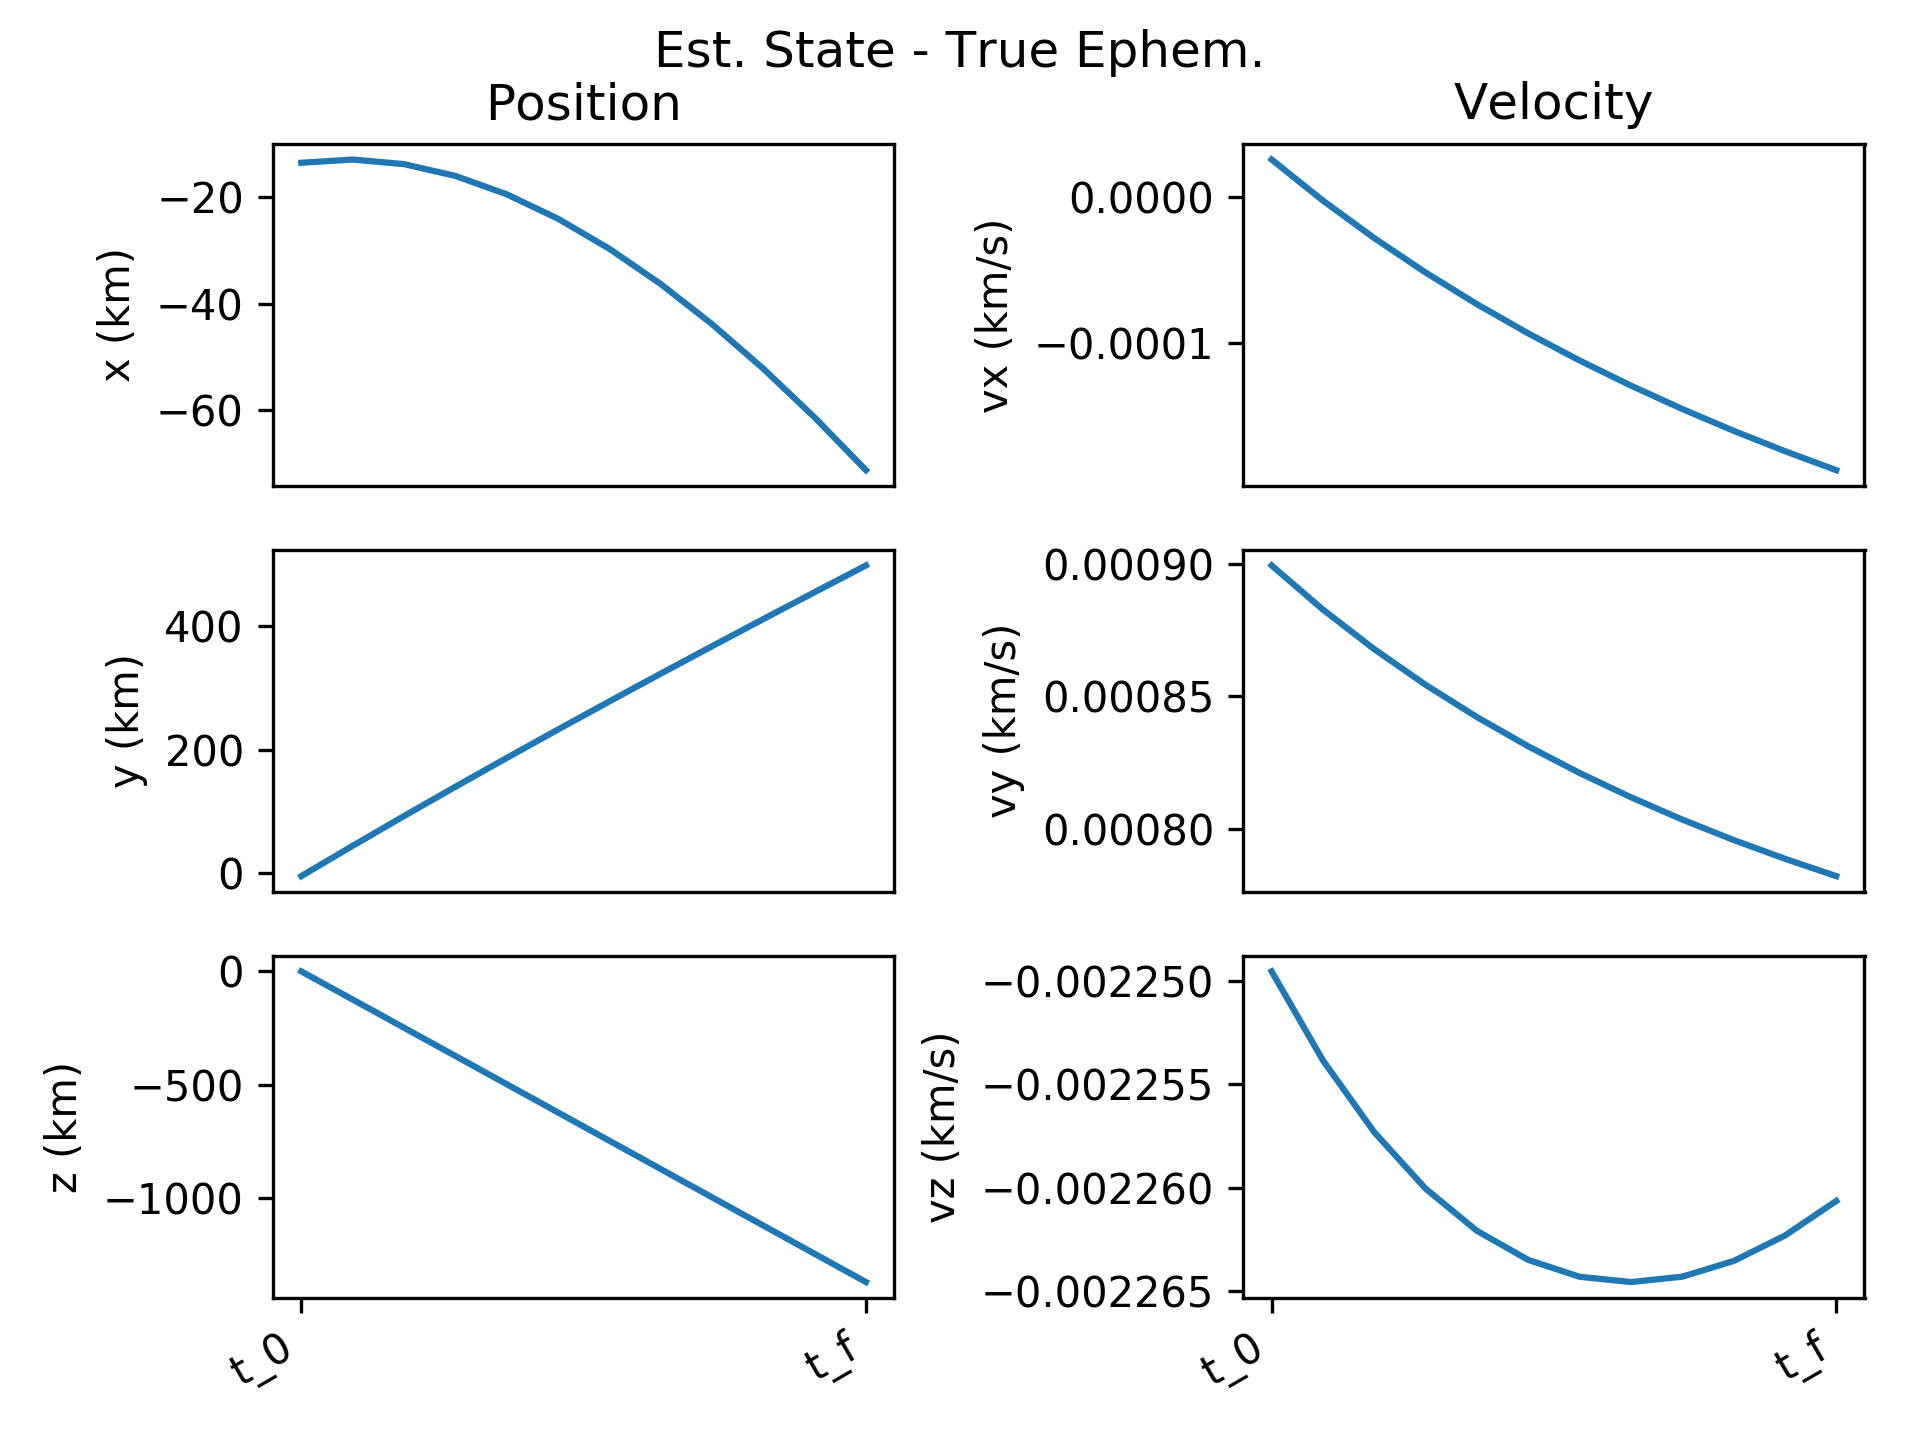
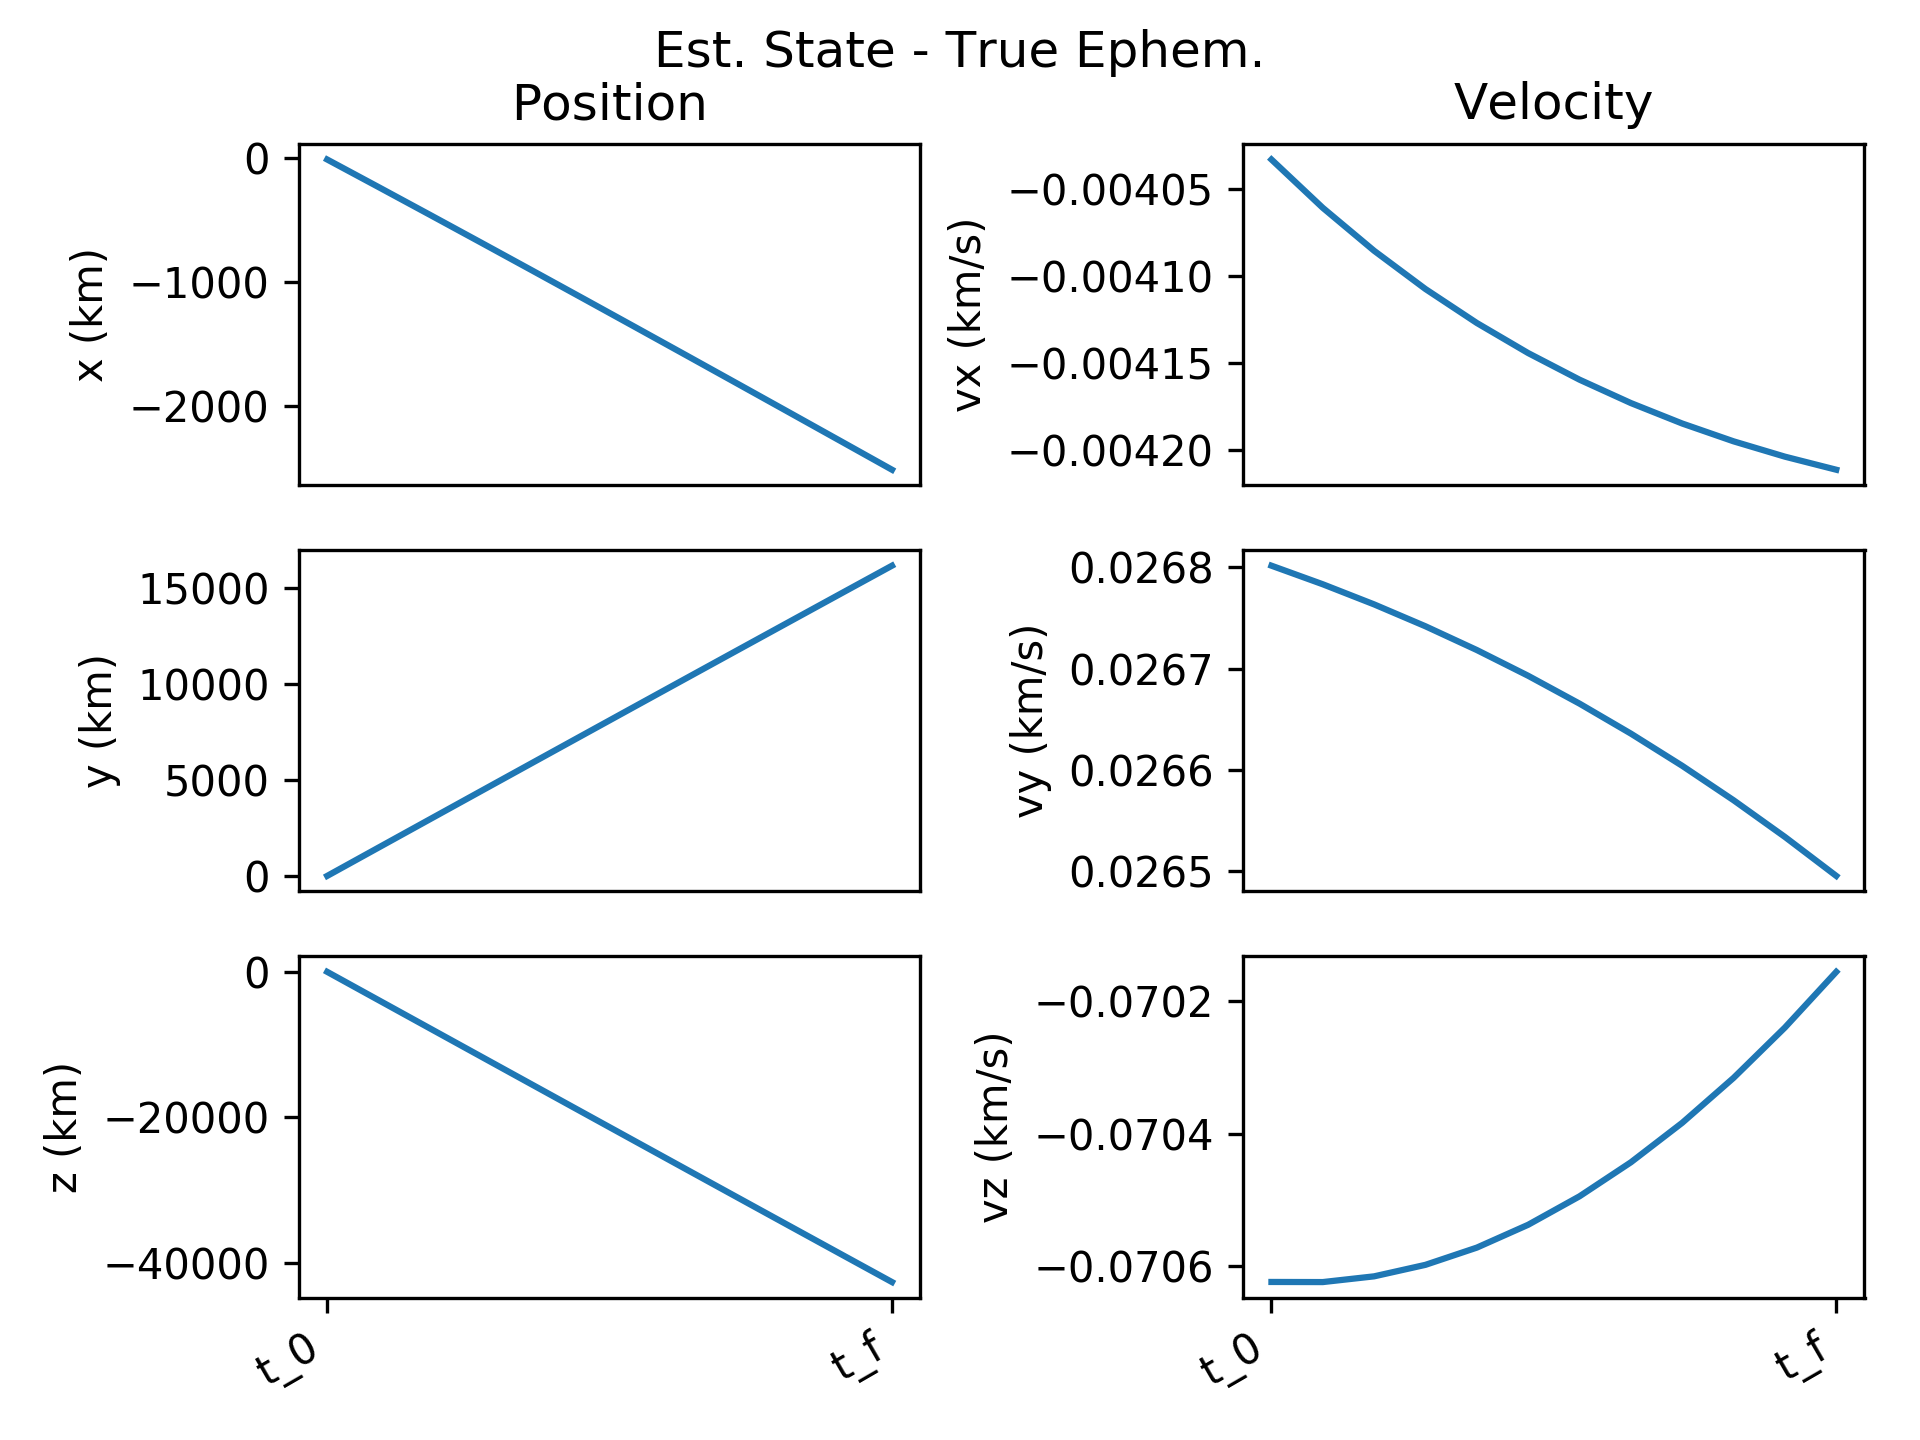
Varying noise levels

diff --git a/DINObatch/init.py b/DINObatch/init.py
@@ -162,7 +162,7 @@ def main():
     extras['SNC'] = (2*10**(-4))**3
 
     # Number of batch iterations
-    extras['iterations'] = 3
+    extras['iterations'] = 4
 
     # Initializing the error
     extras['x_hat_0'] = 0
@@ -183,25 +183,25 @@ def main():
 
     # a priori uncertainty for the ref_states
     P_bar = np.zeros((IC.shape[0], IC.shape[0]))
-    P_bar[0, 0] = 10**2
-    P_bar[1, 1] = 10**2
-    P_bar[2, 2] = 10**2
-    P_bar[3, 3] = .01**2
-    P_bar[4, 4] = .01**2
-    P_bar[5, 5] = .01**2
+    P_bar[0, 0] = 10000**2
+    P_bar[1, 1] = 10000**2
+    P_bar[2, 2] = 10000**2
+    P_bar[3, 3] = .1**2
+    P_bar[4, 4] = .1**2
+    P_bar[5, 5] = .1**2
 
     position_error = np.zeros(3)
     velocity_error = np.zeros(3)
 
     # add uncertainty to the IC
-    position_error = 5 * np.divide(IC[0:3], norm(IC[0:3]))
-    velocity_error = .05 * np.divide(IC[3:6], norm(IC[3:6]))
+    position_error = 5000 * np.divide(IC[0:3], norm(IC[0:3]))
+    velocity_error = 0.05 * np.divide(IC[3:6], norm(IC[3:6]))
 
     IC += np.append(position_error, velocity_error)
 
     # uncertainty to be added in the form of noise to the measurables. Takes the form of variance
     observation_uncertainty = np.identity(2)
-    observation_uncertainty[0, 0] = 10 ** 2
+    observation_uncertainty[0, 0] = 0.1 ** 2
     observation_uncertainty[1, 1] = .0005 ** 2
 
     # the initial STM is an identity matrix
